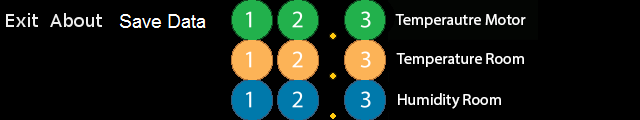
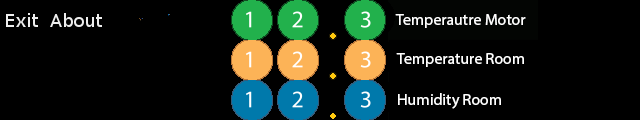
OCR.py: Removed Useless for loop! 	Added wait after about print 	Added Camera values to config.ini 	Fixed "q" escape key config.ini: Added Camera values menu.png:	Removed save button (again)

Changed region(s): [[0.1875, 0.1, 0.3438, 0.25]]

diff --git a/OCR.py b/OCR.py
@@ -31,6 +31,7 @@ def OnClose(event):
     stopOpenCv = True
 
 def Instructions():
+    print "~~~~~~~~~~~~~~~~~~~~~~~~~~~~~~~~~~~~~~~~~~~~~~~~~~~~~~~~~~~~~~~~~~~~~~~~~~~~~~~~~~"
     print "Using the config.ini enable the number of numbers you want to read."
     print "Within the config.ini set the ip address you wish to send data to."
     print "Select which digit you would like to set up from the menu."
@@ -38,6 +39,11 @@ def Instructions():
     print "fall within each of the 7 segments."
     print "Adjust the threshold slider for each selection so that the number is clearly"
     print "visible with as little noise as possible."
+    print "box locations and threshold values are only saved when the programme is closed via"
+    print "the exit button, or the escape key 'q' is pressed."
+    print "Press any key to continue!"
+    print "~~~~~~~~~~~~~~~~~~~~~~~~~~~~~~~~~~~~~~~~~~~~~~~~~~~~~~~~~~~~~~~~~~~~~~~~~~~~~~~~~~"
+    cv.WaitKey()
 
 def imageIdentify(Box):
     global config
@@ -56,7 +62,7 @@ def imageIdentify(Box):
         Box.selection = preprocessImage(Box.selection, Selection_Frame, Box.threshold)
         
         cv2.imshow(Selection_Frame, Box.selection)    #show proccesed image in selection window
-        cv2.resizeWindow(Selection_Frame, 300, 300)   #keeps the windows a set size
+        cv2.resizeWindow(Selection_Frame, 300, 300)   #keeps the windows a set size so you cant see trackbars
 
         #convert image to number
         ValueList = getValueList(Box.segCoordinates, Box.selection)
@@ -97,13 +103,12 @@ def SegValue(Seg, selection):
         else:
             return 1
     except:
-        #for debuging, should never happen
-        return 5
+        #for debuging, in case pixel out size of selection range
+        return None
 
 def convertToInt(X):
     #Uncomment for values less than 10
-    # if X == [0,0,0,0,0,0,0]:
-    #     return 0
+    if X == [0,0,0,0,0,0,0]: return 0
     if X == [1,1,1,1,1,1,0]: return 0
     if X == [0,1,1,0,0,0,0]: return 1
     if X == [1,1,0,1,1,0,1]: return 2
@@ -342,7 +347,7 @@ if __name__ == '__main__':
     # Config Set Up and Values loaded 
     Config = ConfigParser.ConfigParser()
     Config.read("./config.ini")
-    erosion_iters = ConfigSectionMap("PREPROCESS")['erode'] #Default is 2, seems to work best
+    erosion_iters = ConfigSectionMap("PREPROCESS")['erode'] #Default is 1, seems to work best
     
     enable_orange = True if ConfigSectionMap("OCR")['orange'] == "True" else False #convert string to boolean
     enable_blue   = True if ConfigSectionMap("OCR")['blue']   == "True" else False #convert string to boolean
@@ -350,12 +355,12 @@ if __name__ == '__main__':
     ############################################################################
     # Variable Set Up
     drawing     = False         # true if mouse is pressed
-    Draw_G1     = True          # Must be initialized 
-    Draw_G2     = False         #
-    Draw_G3     = False         # 
-    Row1        = True          #
-    Row2, Row3  = False, False  #
     stopOpenCv  = False         # flag to stop opencv
+    # Must be initialized 
+    Row1,Row2,Row3          = True,False,False
+    Draw_G1,Draw_G2,Draw_G3 = True,False,False
+    Draw_O1,Draw_O2,Draw_O3 = False,False,False
+    Draw_B1,Draw_B2,Draw_B3 = False,False,False
 
     #initialize to None
     greenValue, orangeValue, blueValue = None,None,None
@@ -367,14 +372,14 @@ if __name__ == '__main__':
     sock     = socket.socket(socket.AF_INET, socket.SOCK_DGRAM) # UDP
     ############################################################################
     # Logging Set Up
-    logging.basicConfig(filename = 'Consol.log', format = '%(levelname)s %(message)s', level = logging.DEBUG)
+    logging.basicConfig(filename = 'Console.log', format = '%(levelname)s %(message)s', level = logging.DEBUG)
     logging.info('~~~~~~ Start Log ~~~~~~   ' + getDate('%y/%m/%d  %H:%M:%S.%f'))
     #############################################################################
     # Video capture and Settings (Note: May not be avilible on all Cameras)
-    cap = cv2.VideoCapture(0)
-    cap.set(cv.CV_CAP_PROP_CONTRAST,   150)
-    cap.set(cv.CV_CAP_PROP_EXPOSURE,   6.0)
-    cap.set(cv.CV_CAP_PROP_BRIGHTNESS, 200)
+    cap = cv2.VideoCapture(            int(ConfigSectionMap("CAMERA")['camera']))
+    cap.set(cv.CV_CAP_PROP_CONTRAST,   int(ConfigSectionMap("CAMERA")['contrast']))
+    cap.set(cv.CV_CAP_PROP_EXPOSURE,   int(ConfigSectionMap("CAMERA")['exposure']))
+    cap.set(cv.CV_CAP_PROP_BRIGHTNESS, int(ConfigSectionMap("CAMERA")['brightness']))
     #############################################################################
     # GUI and Window Set Up
     # show main window and add it's trackbar
@@ -428,76 +433,26 @@ if __name__ == '__main__':
         frame[0:menu.shape[0], 0:menu.shape[1]] = menu
         ########################################################################
         # ROI Regions of Interest
-        G1List, O1List, B1List = [],[],[]
-        G2List, O2List, B2List = [],[],[]
-        G3List, O3List, B3List = [],[],[]
-        sendData = True     #Make false to stop UDP data sending
+        G1, O1, B1 = None,None,None
+        G2, O2, B2 = None,None,None
+        G3, O3, B3 = None,None,None
 
-        #Create a list of 10 values and find the mode. 
-        #If no value is found, dont add to the list
-        for i in range(0, 10, +1):
-            #tempery values used incase imageIdentify was called twice
-            #Temperature Motor
-            tempx = imageIdentify(G_Box1)
-            tempy = imageIdentify(G_Box2)
-            tempz = imageIdentify(G_Box3)
-            if tempx != None: G1List.append(tempx)          
-            if tempy != None: G2List.append(tempy)
-            if tempz != None: G3List.append(tempz)
+        #Temperature Motor
+        G1 = imageIdentify(G_Box1)
+        G2 = imageIdentify(G_Box2)
+        G3 = imageIdentify(G_Box3)
 
-            if enable_orange:
-                #Temperature Room
-                tempx = imageIdentify(O_Box1)
-                tempy = imageIdentify(O_Box2)
-                tempz = imageIdentify(O_Box3)
-                if tempx != None: O1List.append(tempx)          
-                if tempy != None: O2List.append(tempy)
-                if tempz != None: O3List.append(tempz)
+        if enable_orange:
+            #Temperature Room
+            O1 = imageIdentify(O_Box1)
+            O2 = imageIdentify(O_Box2)
+            O3 = imageIdentify(O_Box3)
 
-            if enable_blue:
-                #Humidity
-                tempx = imageIdentify(B_Box1)
-                tempy = imageIdentify(B_Box2)
-                tempz = imageIdentify(B_Box3)
-                if tempx != None: B1List.append(tempx)          
-                if tempy != None: B2List.append(tempy)
-                if tempz != None: B3List.append(tempz)
-
-        #finds the mode of the Lists, if list is empty throws an ERROR and 
-        #sendData is set to false. The program then trys bypassing the 1 second wait. 
-        try: #convert Motor Temperature
-            G1 = Counter(G1List).most_common(1)[0][0]
-            G2 = Counter(G2List).most_common(1)[0][0]
-            G3 = Counter(G3List).most_common(1)[0][0]
-        except:
-            G1, G2, G3 = None,None,None
-            log_String = "No Geen Temp Found ---" + getDate('%H:%M:%S.%f')
-            logging.warning(log_String)
-            # print log_String
-            # sendData = False
-
-        if enable_orange: # Find Mode if Enabled 
-            try: #convert Room Temperature
-                O1 = Counter(O1List).most_common(1)[0][0]
-                O2 = Counter(O2List).most_common(1)[0][0]
-                O3 = Counter(O3List).most_common(1)[0][0]
-            except:
-                #Set Values to None
-                O1, O2, O3 = None,None,None
-                log_String = "No Orange Temp Found --- " + getDate('%H:%M:%S.%f')
-                logging.warning(log_String)
-                # print log_String
-        if enable_blue:   # Find Mode if Enabled 
-            try: #convert Room Humidity
-                B1 = Counter(B1List).most_common(1)[0][0]
-                B2 = Counter(B2List).most_common(1)[0][0]
-                B3 = Counter(B3List).most_common(1)[0][0]
-            except:
-                #Set Values to None
-                B1, B2, B3 = None,None,None
-                log_String = "No Blue Temp Found --- " + Getdate('%H:%M:%S.%f')
-                logging.warning(log_String)
-                # print log_String
+        if enable_blue:
+            #Humidity
+            B1 = imageIdentify(B_Box1)
+            B2 = imageIdentify(B_Box2)
+            B3 = imageIdentify(B_Box3)
 
         draw()  #draw all the rectangels 
 
@@ -517,17 +472,17 @@ if __name__ == '__main__':
         logging.info(log_String)
 
         #Check if there are Values to Send, and if there are any values, send them.
-        if (greenValue != None) or (orangeValue != None) or (blueValue != None):
+        if (greenValue is not None) or (orangeValue is not None) or (blueValue is not None):
             #Send Data over network
             sock.sendto('{"temperatures": %r}'%SendArray, (UDP_IP, UDP_PORT))
 
             c = cv.WaitKey(1000)
-            if c == "q":   break
+            if c == ord("q"):   break
             if stopOpenCv: break
 
         else: # if none values to send do nothing and restart loop.
             c = cv.WaitKey(1)
-            if c == "q":   break
+            if c == ord("q"):   break
             if stopOpenCv: break
 
     # When everything done, release the capture, close windows, save config values
